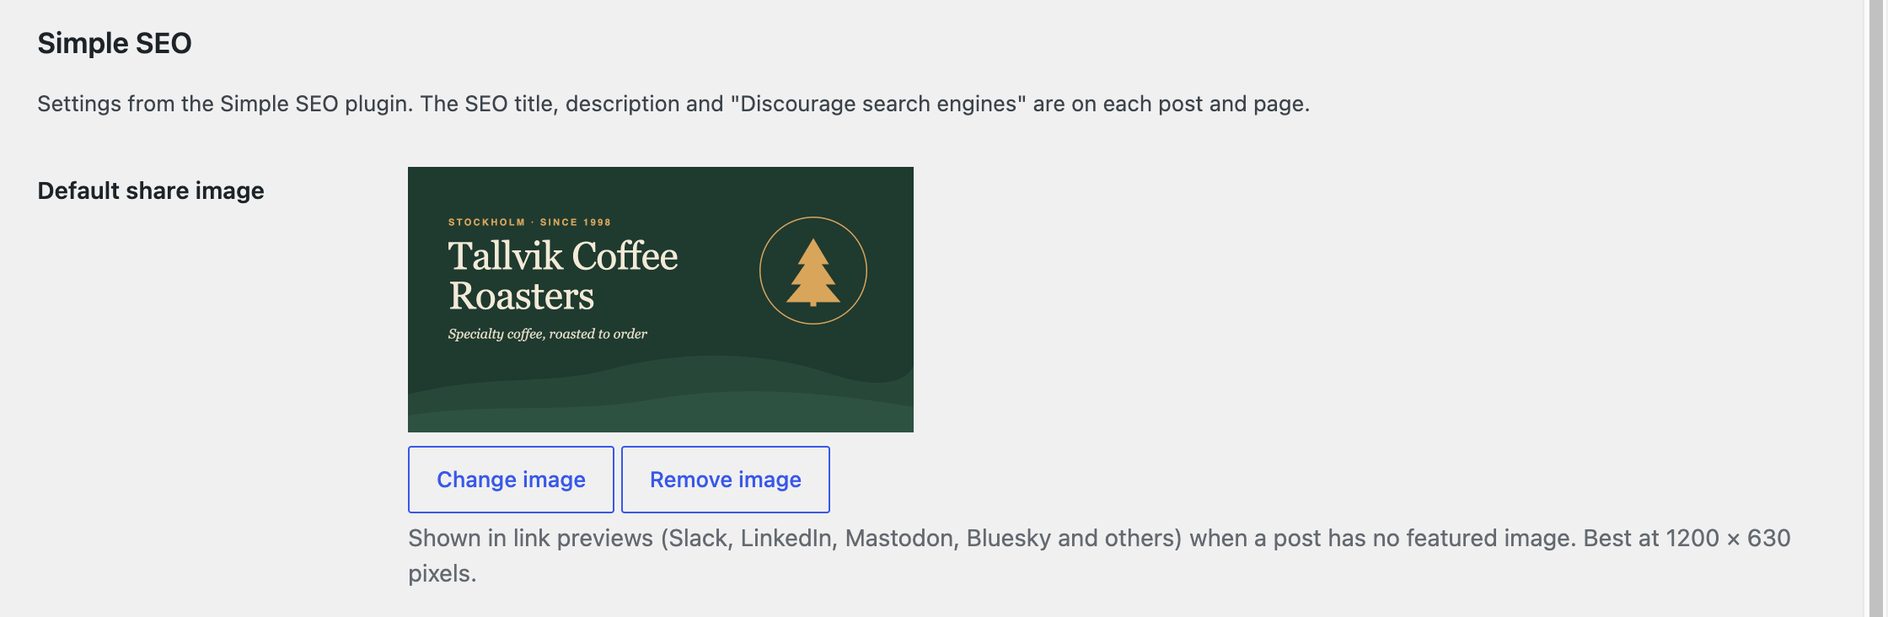
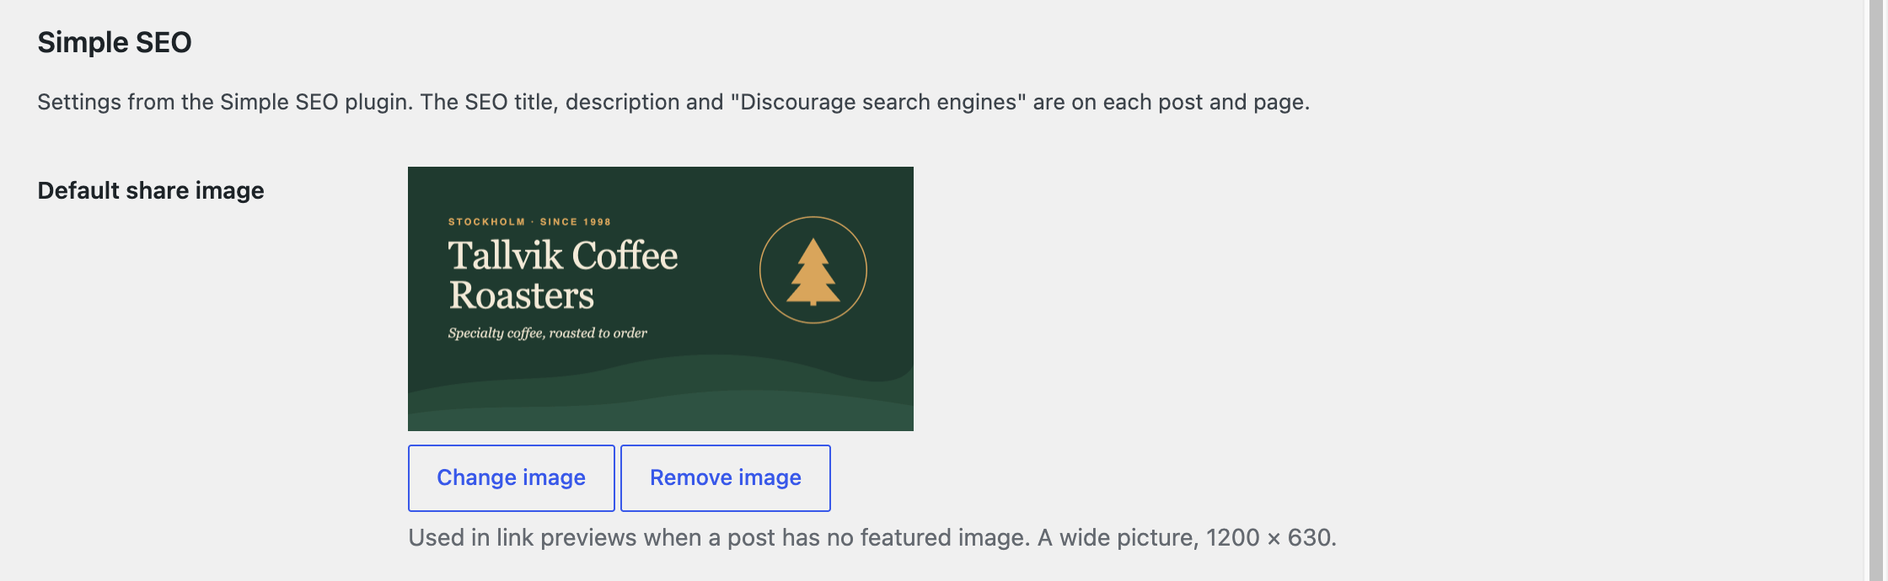
Link preview excerpt fallback, card size by image, shorter help text
- og:description falls back to a hand-written excerpt when a post has
  no meta description (never an automatic excerpt).
- twitter:card is summary_large_image only for images at least 600 px
  wide and wider than tall; a square site icon gets the small card.
- Help text is one short line per field; the advice moved to three new
  FAQ answers (SEO title length, what "Discourage search engines" does,
  a good share image).
- Readme example: an SEO title that stays close to the headline.
- Demo site and screenshots updated.

diff --git a/build/editor-panel.js b/build/editor-panel.js
@@ -1,2 +1,2 @@
-(()=>{"use strict";const e=window.wp.plugins,s=window.wp.editor,t=window.wp.coreData,i=window.wp.data,o=window.wp.element,n=window.wp.components,l=window.wp.i18n,r=window.ReactJSXRuntime,{otherPlugin:a,simpleHistoryUrl:p,frontPageId:_,faqUrl:m}=window.simpleSeoEditor||{};(0,e.registerPlugin)("simple-seo",{render:function(){const e=(0,i.useSelect)(e=>e(s.store).getCurrentPostType(),[]),d=(0,i.useSelect)(e=>e(s.store).getCurrentPostId(),[]),[c,h]=(0,t.useEntityProp)("postType",e,"meta");if(!c)return null;const w=""!==c._simple_seo_title.trim()||""!==c._simple_seo_description.trim()||!!c._simple_seo_noindex,u=e=>s=>h({[e]:s});return(0,r.jsx)(s.PluginDocumentSettingPanel,{name:"simple-seo",title:(0,l.__)("Simple SEO","simple-seo"),children:(0,r.jsxs)(n.Flex,{direction:"column",gap:4,children:[a&&(0,r.jsx)("p",{className:"components-base-control__help",children:(0,l.sprintf)(/* translators: %s: name of another SEO plugin, like Yoast SEO. */ /* translators: %s: name of another SEO plugin, like Yoast SEO. */
-(0,l.__)("%s is active and handles SEO, so these fields aren’t used.","simple-seo"),a)}),(0,r.jsx)(n.TextControl,{__next40pxDefaultSize:!0,__nextHasNoMarginBottom:!0,label:(0,l.__)("SEO title","simple-seo"),help:d===_?(0,l.__)("Used as the whole title of the front page.","simple-seo"):(0,l.__)("The site name is added after it.","simple-seo"),value:c._simple_seo_title,onChange:u("_simple_seo_title")}),(0,r.jsx)(n.TextareaControl,{__nextHasNoMarginBottom:!0,className:"simple-seo-autogrow",rows:2,label:(0,l.__)("Meta description","simple-seo"),help:(0,l.__)("Often shown under the title in search results.","simple-seo"),value:c._simple_seo_description,onChange:u("_simple_seo_description")}),(0,r.jsx)(n.CheckboxControl,{__nextHasNoMarginBottom:!0,label:(0,l.__)("Discourage search engines from indexing this page","simple-seo"),help:(0,l.__)("It’s up to search engines to honor this request. Anyone with the link can still open the page.","simple-seo"),checked:!!c._simple_seo_noindex,onChange:e=>h({_simple_seo_noindex:e})}),p&&w&&(0,r.jsx)("p",{className:"simple-seo-tip",children:(0,o.createInterpolateElement)((0,l.__)("Tip: <a>Simple History</a> logs every change to these fields.","simple-seo"),{a:(0,r.jsx)("a",{href:p})})}),(0,r.jsx)("div",{children:(0,r.jsx)(n.ExternalLink,{href:m,children:(0,l.__)("Learn more about these fields","simple-seo")})})]})})}})})();
+(()=>{"use strict";const e=window.wp.plugins,s=window.wp.editor,o=window.wp.coreData,t=window.wp.data,i=window.wp.element,n=window.wp.components,l=window.wp.i18n,r=window.ReactJSXRuntime,{otherPlugin:a,simpleHistoryUrl:p,frontPageId:_,faqUrl:m}=window.simpleSeoEditor||{};(0,e.registerPlugin)("simple-seo",{render:function(){const e=(0,t.useSelect)(e=>e(s.store).getCurrentPostType(),[]),d=(0,t.useSelect)(e=>e(s.store).getCurrentPostId(),[]),[c,h]=(0,o.useEntityProp)("postType",e,"meta");if(!c)return null;const w=""!==c._simple_seo_title.trim()||""!==c._simple_seo_description.trim()||!!c._simple_seo_noindex,u=e=>s=>h({[e]:s});return(0,r.jsx)(s.PluginDocumentSettingPanel,{name:"simple-seo",title:(0,l.__)("Simple SEO","simple-seo"),children:(0,r.jsxs)(n.Flex,{direction:"column",gap:4,children:[a&&(0,r.jsx)("p",{className:"components-base-control__help",children:(0,l.sprintf)(/* translators: %s: name of another SEO plugin, like Yoast SEO. */ /* translators: %s: name of another SEO plugin, like Yoast SEO. */
+(0,l.__)("%s is active and handles SEO, so these fields aren’t used.","simple-seo"),a)}),(0,r.jsx)(n.TextControl,{__next40pxDefaultSize:!0,__nextHasNoMarginBottom:!0,label:(0,l.__)("SEO title","simple-seo"),help:d===_?(0,l.__)("The whole title of the front page.","simple-seo"):(0,l.__)("About 50 characters. The site name is added after it.","simple-seo"),value:c._simple_seo_title,onChange:u("_simple_seo_title")}),(0,r.jsx)(n.TextareaControl,{__nextHasNoMarginBottom:!0,className:"simple-seo-autogrow",rows:2,label:(0,l.__)("Meta description","simple-seo"),help:(0,l.__)("Often shown in search results.","simple-seo"),value:c._simple_seo_description,onChange:u("_simple_seo_description")}),(0,r.jsx)(n.CheckboxControl,{__nextHasNoMarginBottom:!0,label:(0,l.__)("Discourage search engines from indexing this page","simple-seo"),help:(0,l.__)("It’s up to search engines to honor this request.","simple-seo"),checked:!!c._simple_seo_noindex,onChange:e=>h({_simple_seo_noindex:e})}),p&&w&&(0,r.jsx)("p",{className:"simple-seo-tip",children:(0,i.createInterpolateElement)((0,l.__)("Tip: <a>Simple History</a> logs every change to these fields.","simple-seo"),{a:(0,r.jsx)("a",{href:p})})}),(0,r.jsx)("div",{children:(0,r.jsx)(n.ExternalLink,{href:m,children:(0,l.__)("Learn more about these fields","simple-seo")})})]})})}})})();

diff --git a/.claude/skills/visual-check/capture-screenshots.js b/.claude/skills/visual-check/capture-screenshots.js
@@ -18,9 +18,9 @@
 async ( page ) => {
 	const WP_ENV = 'http://localhost:8315';
 	const CLASSIC = 'http://wp-playground-classiceditor.test:8314';
-	const WP_ENV_PAGE = 281; // "About us" from seed.php on wp-env.
-	const WP_ENV_QUICK_EDIT = 278; // "Our coffees", opened in Quick Edit in shot 2.
-	const CLASSIC_PAGE = 161; // "About us" from seed.php on the Classic Editor site.
+	const WP_ENV_PAGE = 361; // "About us" from seed.php on wp-env.
+	const WP_ENV_QUICK_EDIT = 358; // "Our coffees", opened in Quick Edit in shot 2.
+	const CLASSIC_PAGE = 183; // "About us" from seed.php on the Classic Editor site.
 	const X = 160; // Right of the admin menu.
 	const WIDTH = 1120;
 
@@ -72,7 +72,7 @@ async ( page ) => {
 	}
 	await p.waitForTimeout( 500 );
 	// A change to the title and description, for the Simple History shot.
-	await p.getByRole( 'textbox', { name: 'SEO title' } ).fill( 'Our story – coffee by the water' );
+	await p.getByRole( 'textbox', { name: 'SEO title' } ).fill( 'About us: our roastery in Nacka' );
 	await p
 		.getByRole( 'textbox', { name: 'Meta description' } )
 		.fill( 'Small batch coffee, roasted to order by the water in Nacka since 1998.' );

diff --git a/js/editor-panel.js b/js/editor-panel.js
@@ -76,11 +76,11 @@ function SimpleSeoPanel() {
 					help={
 						postId === frontPageId
 							? __(
-									'Used as the whole title of the front page.',
+									'The whole title of the front page.',
 									'simple-seo'
 								)
 							: __(
-									'The site name is added after it.',
+									'About 50 characters. The site name is added after it.',
 									'simple-seo'
 								)
 					}
@@ -94,7 +94,7 @@ function SimpleSeoPanel() {
 					rows={ 2 }
 					label={ __( 'Meta description', 'simple-seo' ) }
 					help={ __(
-						'Often shown under the title in search results.',
+						'Often shown in search results.',
 						'simple-seo'
 					) }
 					value={ meta._simple_seo_description }
@@ -108,7 +108,7 @@ function SimpleSeoPanel() {
 						'simple-seo'
 					) }
 					help={ __(
-						'It’s up to search engines to honor this request. Anyone with the link can still open the page.',
+						'It’s up to search engines to honor this request.',
 						'simple-seo'
 					) }
 					checked={ !! meta._simple_seo_noindex }

diff --git a/.claude/skills/visual-check/seed.php b/.claude/skills/visual-check/seed.php
@@ -69,7 +69,7 @@ $pages = [
 	[ 'Our coffees', $paragraphs( 'Single origins and blends, from light and fruity to dark and chocolatey.', 'Every bag is roasted the week you order it and shipped the day after roasting.' ), 'Coffee beans – light, medium and dark roasts', true, 'Single origins and blends, roasted every Tuesday and Friday and shipped the day after.', 'Coffees', '2019-03-12 09:20', 1 ],
 	[ 'Coffee subscription', $paragraphs( 'Fresh beans in your letterbox every two or four weeks. Pause or cancel whenever you like.' ), 'Coffee subscription – fresh beans every month', true, '', 'Subscription', '2021-02-01 13:45', $erik ],
 	[ 'Wholesale', $paragraphs( 'We roast for cafés, restaurants and offices around Stockholm, and help your staff get the most out of every bag.' ), 'Wholesale coffee for cafés and offices', false, 'Coffee, equipment and barista training for cafés, restaurants and offices in the Stockholm area.', '', '2020-08-19 10:02', $erik ],
-	[ 'About us', $paragraphs( 'Tallvik started in 1998 in a small shed by the water in Nacka, with a second-hand roaster and a lot of burnt beans.', '## Where our coffee comes from', 'We buy green coffee from the same farms year after year, and pay well above the market price for it.', '## Visit us', 'The roastery is open on Saturdays. Come by for a cup and watch us roast.' ), 'Our story – small batch coffee', true, 'Small batch coffee, roasted to order in Stockholm since 1998.', 'About', '2019-03-12 09:31', 1 ],
+	[ 'About us', $paragraphs( 'Tallvik started in 1998 in a small shed by the water in Nacka, with a second-hand roaster and a lot of burnt beans.', '## Where our coffee comes from', 'We buy green coffee from the same farms year after year, and pay well above the market price for it.', '## Visit us', 'The roastery is open on Saturdays. Come by for a cup and watch us roast.' ), 'About us: small batch coffee from Stockholm', true, 'Small batch coffee, roasted to order in Stockholm since 1998.', 'About', '2019-03-12 09:31', 1 ],
 	[ 'Visit the roastery', $paragraphs( 'Open Saturdays 10–15. Taste this week’s coffees and buy beans straight from the roaster.' ), '', true, 'Open Saturdays 10–15. Taste this week’s coffees and watch us roast.', '', '2023-05-02 08:40', $erik, 'About us' ],
 	[ 'Holiday gift boxes', $paragraphs( 'Three coffees, a tasting card and a handwritten note.' ), '', true, '', '', '2026-09-21 16:05', $erik, '', 'draft' ],
 	[ 'Thanks for your order', $paragraphs( 'Your coffee will be roasted on our next roasting day and shipped the day after.' ), '', true, '', '', '2021-02-01 14:10', $erik, '', 'publish', true ],

diff --git a/src/link-previews.php b/src/link-previews.php
@@ -42,15 +42,22 @@ function link_preview_tags(): void {
 		return;
 	}
 
-	$title = get_bloginfo( 'name' );
-	$url   = home_url( '/' );
-	$image = null;
+	$title       = get_bloginfo( 'name' );
+	$description = current_description();
+	$url         = home_url( '/' );
+	$image       = null;
 
 	if ( $post_id ) {
 		$title = seo_title( $post_id );
 		$title = '' !== $title ? $title : wp_strip_all_tags( get_the_title( $post_id ) );
 		$url   = (string) get_permalink( $post_id );
 		$image = featured_image( $post_id );
+
+		// No meta description: the excerpt, if someone wrote one. Not an automatic excerpt from the
+		// content, which is usually a worse summary than the apps' own.
+		if ( '' === $description ) {
+			$description = trim( (string) preg_replace( '/\s+/', ' ', wp_strip_all_tags( (string) get_post_field( 'post_excerpt', $post_id ) ) ) );
+		}
 	}
 
 	// The default share image from Settings → General, when there's no featured image.
@@ -71,14 +78,14 @@ function link_preview_tags(): void {
 		'og:type'         => is_front_page() ? 'website' : 'article',
 		'og:site_name'    => get_bloginfo( 'name' ),
 		'og:title'        => $title,
-		'og:description'  => current_description(),
+		'og:description'  => $description,
 		'og:url'          => $url,
 		'og:image'        => $image['url'] ?? '',
 		'og:image:width'  => $image['width'] ?? '',
 		'og:image:height' => $image['height'] ?? '',
 		'og:image:alt'    => $image['alt'] ?? '',
 		// Apps that read twitter:card take everything else from the og: tags.
-		'twitter:card'    => $image ? 'summary_large_image' : 'summary',
+		'twitter:card'    => $image && is_wide( $image ) ? 'summary_large_image' : 'summary',
 	];
 
 	/**
@@ -102,6 +109,20 @@ function link_preview_tags(): void {
 			esc_attr( (string) $content )
 		);
 	}
+}
+
+/**
+ * Whether an image suits a large, wide preview card: at least 600 px wide and wider than tall.
+ * A small or square image, like a site icon, gets the small card instead of being cropped or blurred.
+ * An image without a known size (from the filter) counts as wide.
+ *
+ * @param array{url: string, width?: int, height?: int} $image The image.
+ */
+function is_wide( array $image ): bool {
+	$width  = (int) ( $image['width'] ?? 0 );
+	$height = (int) ( $image['height'] ?? 0 );
+
+	return ! $width || ( $width >= 600 && $width > $height );
 }
 
 /**

diff --git a/tests/php/LinkPreviewsTest.php b/tests/php/LinkPreviewsTest.php
@@ -52,6 +52,34 @@ class LinkPreviewsTest extends SimpleSEO_TestCase {
 		$this->assertStringContainsString( 'twitter:card" content="summary"', $tags );
 	}
 
+	public function test_small_or_square_image_is_a_small_card() {
+		$post_id = self::factory()->post->create();
+		add_filter( 'simple_seo_link_preview_image', fn() => [ 'url' => 'https://example.com/icon.png', 'width' => 512, 'height' => 512, 'alt' => '' ] );
+		$this->go_to( get_permalink( $post_id ) );
+
+		$tags = $this->tags();
+		$this->assertStringContainsString( 'og:image" content="https://example.com/icon.png"', $tags );
+		$this->assertStringContainsString( 'twitter:card" content="summary"', $tags );
+	}
+
+	public function test_excerpt_when_there_is_no_description() {
+		$post_id = self::factory()->post->create( [ 'post_excerpt' => "  A hand-written\n<b>summary</b>. " ] );
+		$this->go_to( get_permalink( $post_id ) );
+
+		$this->assertStringContainsString( 'og:description" content="A hand-written summary."', $this->tags() );
+		// Only in link previews, not the meta description.
+		$this->assertSame( '', SimpleSEO\current_description() );
+
+		update_post_meta( $post_id, '_simple_seo_description', 'The SEO description' );
+		$this->assertStringContainsString( 'og:description" content="The SEO description"', $this->tags() );
+	}
+
+	public function test_no_automatic_excerpt() {
+		$this->go_to( get_permalink( self::factory()->post->create( [ 'post_content' => 'Only content, no excerpt.', 'post_excerpt' => '' ] ) ) );
+
+		$this->assertStringNotContainsString( 'og:description', $this->tags() );
+	}
+
 	public function test_nothing_on_archives() {
 		self::factory()->post->create();
 		$this->go_to( get_category_link( 1 ) );

diff --git a/tests/php/AdminTest.php b/tests/php/AdminTest.php
@@ -14,13 +14,13 @@ class AdminTest extends SimpleSEO_TestCase {
 		$front = self::factory()->post->create( [ 'post_type' => 'page' ] );
 		$other = self::factory()->post->create( [ 'post_type' => 'page' ] );
 
-		$this->assertSame( 'The site name is added after it.', title_help( $front ) );
+		$this->assertSame( 'About 50 characters. The site name is added after it.', title_help( $front ) );
 
 		update_option( 'show_on_front', 'page' );
 		update_option( 'page_on_front', $front );
 
-		$this->assertSame( 'Used as the whole title of the front page.', title_help( $front ) );
-		$this->assertSame( 'The site name is added after it.', title_help( $other ) );
+		$this->assertSame( 'The whole title of the front page.', title_help( $front ) );
+		$this->assertSame( 'About 50 characters. The site name is added after it.', title_help( $other ) );
 	}
 
 	public function test_uses_seo_fields() {

diff --git a/src/admin.php b/src/admin.php
@@ -33,15 +33,15 @@ const FAQ_URL = 'https://wordpress.org/plugins/simple-seo/#faq';
  */
 function title_help( int $post_id ): string {
 	return is_front_page_post( $post_id )
-		? __( 'Used as the whole title of the front page.', 'simple-seo' )
-		: __( 'The site name is added after it.', 'simple-seo' );
+		? __( 'The whole title of the front page.', 'simple-seo' )
+		: __( 'About 50 characters. The site name is added after it.', 'simple-seo' );
 }
 
 /**
  * Help text for "Discourage search engines from indexing this page". noindex is a request, not a block.
  */
 function noindex_help(): string {
-	return __( 'It\'s up to search engines to honor this request. Anyone with the link can still open the page.', 'simple-seo' );
+	return __( 'It\'s up to search engines to honor this request.', 'simple-seo' );
 }
 
 /**

diff --git a/src/classic-editor.php b/src/classic-editor.php
@@ -61,7 +61,7 @@ function meta_box( WP_Post $post ): void {
 	}
 
 	text_field( 'title', __( 'SEO title', 'simple-seo' ), get_title( $post->ID ), title_help( $post->ID ) );
-	text_field( 'description', __( 'Meta description', 'simple-seo' ), get_description( $post->ID ), __( 'Often shown under the title in search results.', 'simple-seo' ), true );
+	text_field( 'description', __( 'Meta description', 'simple-seo' ), get_description( $post->ID ), __( 'Often shown in search results.', 'simple-seo' ), true );
 
 	if ( 'page' === $post->post_type ) {
 		text_field( 'menu_label', __( 'Menu label', 'simple-seo' ), get_menu_label( $post->ID ), __( 'Used in automatic page lists, not in hand-made menus.', 'simple-seo' ) );

diff --git a/src/settings.php b/src/settings.php
@@ -100,7 +100,7 @@ function share_image_field(): void {
 
 	printf(
 		'<p class="description">%s</p>',
-		esc_html__( 'Shown in link previews (Slack, LinkedIn, Mastodon, Bluesky and others) when a post has no featured image. Best at 1200 × 630 pixels.', 'simple-seo' )
+		esc_html__( 'Used in link previews when a post has no featured image. A wide picture, 1200 × 630.', 'simple-seo' )
 	);
 }
 

diff --git a/build/editor-panel.asset.php b/build/editor-panel.asset.php
@@ -9,5 +9,5 @@
 		'wp-i18n',
 		'wp-plugins'
 	),
-	'version' => '07938acf59ff24147cf3'
+	'version' => '4719b15fe7747794022a'
 );

diff --git a/CLAUDE.md b/CLAUDE.md
@@ -33,7 +33,7 @@ Released: 1.0.0 (2026-09-26), the rewrite. Before it, 0.3.5 (2026-09-24), the fi
   - No checkboxes for text fields (2026-09-26, the day 1.0.0 shipped, before WordPress.org's 6-hour hold let any site update): only noindex is a checkbox. 1.0.0 stored a `_simple_seo_title_disabled` / `_simple_seo_description_disabled` flag per field; they're no longer read or written.
   - Pre-1.0 title: `_simple_seo_use_custom_page_title` (0/1) and `_simple_seo_custom_page_title_value`. Existing sites depend on it, so `get_title()` falls back to it, only when its box was ticked (an unticked one stays unused). Any write to `_simple_seo_title` (editor, REST, WP-CLI) deletes the old pair. No bulk migration, no option to track one.
   - Menu label: `_simple_seo_use_custom_menu_label` (0/1) and `_simple_seo_custom_menu_label_value`, unchanged keys. Kept for existing users, pages only, Classic meta box only (2026-09-25). A plain text field: saving text sets the flag to 1, saving it empty deletes both.
-- Link previews (`src/link-previews.php`): Open Graph + `twitter:card` on posts, pages, the blog page and the front page (not archives or search), from the SEO title, description and featured image. On by default, no setting (2026-09-25). Turns Jetpack's Open Graph off while ours are on.
+- Link previews (`src/link-previews.php`): Open Graph + `twitter:card` on posts, pages, the blog page and the front page (not archives or search), from the SEO title, description and featured image. Without a description, `og:description` falls back to a hand-written excerpt (never an automatic one; the meta description has no fallback). `summary_large_image` only for images at least 600 px wide and wider than tall (`is_wide()`), else `summary` (2026-09-27: a 512 px site icon as the share image). On by default, no setting (2026-09-25). Turns Jetpack's Open Graph off while ours are on.
 - Settings (`src/settings.php`): a "Simple SEO" section on Settings → General via the Settings API (looks like core, but users must see it's from our plugin, hence the section heading and "From the Simple SEO plugin."). One field, "Default share image", with the media library like core's Site Icon (`build/share-image-field.js`). Stored as `{ id, url, width, height, alt }` so link previews need no queries; refreshed when that attachment's metadata or alt text changes, removed when it's deleted. Used in link previews when a post has no featured image.
 - Simple History (`src/simple-history.php`, `src/class-simple-history-logger.php`): when it's active, changes to the fields are logged as one "Updated the SEO for …" event per post and request (captured before our keys are written, logged on `shutdown`), with old and new values of the SEO title, description, noindex and menu label. Action links under the event (`get_action_links()`, Simple History 5.24+): Edit/View <type> and All <types>, following Simple History's `action-links` skill (plain title in the message, no revisions link). Changes of the default share image are logged too (set, changed, removed; not the refresh after an alt-text edit), with Simple History 5.32+'s image diff (size `small`, the default overflows) and a "General settings" link. The logger class is only loaded from `register_simple_history_logger()`, after checking for Simple History 4.0+'s `Logger` class (as CMS Tree Page View does). PHPStan knows the Simple History classes from `tests/phpstan/simple-history-stubs.php`. Without Simple History: one tip line in the editor fields, for users who can install plugins only.
 - No HTML comment in the head (2026-09-26): no "optimized by Simple SEO" line like Yoast's. It would be an advert in every page and, with a version, help fingerprint the site. Query Monitor answers "which plugin printed this". `HeadTest` checks it. Exception (2026-09-26): when `wp_get_environment_type()` is `local`, `head_tags()` wraps the meta description and link preview tags in `<!-- Simple SEO start (local sites only, not on live sites). Title and robots tags: printed by WordPress, filtered by Simple SEO. -->` / `<!-- Simple SEO end -->` (wording from a copywriter pass), for debugging (filter `simple_seo_debug_comments`). The `<title>` and robots tags are core's, so they sit outside: robots above, the title above on classic themes but below on block themes (core adds its title hook after plugins there), hence no "above" in the comment. All local docker sites and wp-env report `local`.
@@ -46,7 +46,7 @@ Released: 1.0.0 (2026-09-26), the rewrite. Before it, 0.3.5 (2026-09-24), the fi
   - Sitemap: noindexed posts are left out of core's `wp-sitemap.xml` (`wp_sitemaps_posts_query_args`). The noindex meta's sanitize callback stores it as `'1'` or `''`, which the query relies on.
   - The menu label only affects `get_pages()` / `wp_list_pages()`, and not in wp-admin (the Parent and Settings → Reading dropdowns show real titles; admin-ajax and REST still get labels). That includes the Page List block (`wp-includes/blocks/page-list.php` calls `get_pages()`), which an empty Navigation block falls back to: WordPress creates a `wp_navigation` post containing `<!-- wp:page-list /-->` (verified in Twenty Twenty-Three on the php74 site). It does not reach classic menus or Navigation blocks with hand-picked Page Link blocks, which store their own labels.
 - Block editor: `src/block-editor.php` loads `build/editor-panel.js` (source `js/editor-panel.js`) on the post edit screen only. A "Simple SEO" `PluginDocumentSettingPanel` made of core components, reading and writing the meta with `useEntityProp`, so it saves with the post. Same fields as the Classic box: a `TextControl`, a `TextareaControl` and the noindex `CheckboxControl`. It renders nothing for post types without `custom-fields` support. Keep it looking like core: stable `@wordpress/components` only (`__experimental*` fails lint), core wording and spacing, one short help line per field, the other-plugin message as a plain help paragraph (core panels don't use Notices). Pass only changed keys to `setMeta()` (meta edits are merged). Keep `__nextHasNoMarginBottom` / `__next40pxDefaultSize` until the floor is WordPress 7.0 (default there, warnings without them on 6.7–6.9); never pass `__next40pxDefaultSize` to `TextareaControl`. Reviewed against WP 7.1 and Gutenberg trunk on 2026-09-25: no deprecated APIs, and DataForm isn't usable by plugins yet.
-- Naming (2026-09-26, after a UX and an art director review): the block editor panel and the Classic box are "Simple SEO", so users see where they come from; the list column is "SEO", where space is tight; Quick Edit has no group heading (2026-09-26: the field labels say it). Help text is one line per field (`src/admin.php`: the title help says "whole title" on the static front page, the noindex checkbox and help follow core's Settings → Reading wording, since noindex is a request search engines may ignore: "Discourage search engines from indexing this page" / "It's up to search engines to honor this request. Anyone with the link can still open the page."). The Simple History tip only shows on posts that use the fields. Both the panel and the box end with "Learn more about these fields", an external link to the readme FAQ (`FAQ_URL` in `src/admin.php`), the core way to offer more help (core never puts help icons on fields).
+- Naming (2026-09-26, after a UX and an art director review): the block editor panel and the Classic box are "Simple SEO", so users see where they come from; the list column is "SEO", where space is tight; Quick Edit has no group heading (2026-09-26: the field labels say it). Help text is one short line per field, only what's needed while typing (2026-09-27: "keep it simple and minimal"); the reasons go in the readme FAQ, which "Learn more about these fields" opens. `src/admin.php` and `js/editor-panel.js`: title "About 50 characters. The site name is added after it." ("The whole title of the front page." on the static front page), description "Often shown in search results.", noindex label and help in core's Settings → Reading wording, since it's a request search engines may ignore: "Discourage search engines from indexing this page" / "It's up to search engines to honor this request." Share image (Settings): "Used in link previews when a post has no featured image. A wide picture, 1200 × 630." The Simple History tip only shows on posts that use the fields. Both the panel and the box end with "Learn more about these fields", an external link to the readme FAQ (`FAQ_URL` in `src/admin.php`), the core way to offer more help (core never puts help icons on fields).
 - Posts lists (`src/list-table.php`): an "SEO" column right after the title (2026-09-26: it's related to the title) (what's used: "Search engines discouraged" first, then "Title:" and "Description:" lines with a muted label (the title text semibold, 600), so each row reads on its own; — when nothing is set. picked on 2026-09-26 from a mockup comparison) and the same fields in Quick Edit (the menu label only on pages that already have one, since the block editor has none; 2026-09-26), filled by `build/quick-edit.js` from JSON the column keeps in a hidden element. Quick Edit posts the Classic box's field names, so `save_post()` in `classic-editor.php` saves both; Bulk Edit doesn't include them, so it can't touch them. The list query has already loaded the meta: no extra queries. Which post types: `has_seo_fields()` in `meta.php`, shared with the box and the panel.
 - Old 0.3.5 titles (ticked ones) reach the REST API and the panel through `legacy_title_default()` (`default_post_metadata`). `forget_legacy_title()` deletes the old keys on any write of `_simple_seo_title`; `save_text()` calls it too when it empties a field that has nothing stored under the new key (a delete of a missing key fires no hook).
 - Which post types get the fields (Classic box and block editor panel): those where `is_post_type_viewable()` is true, except attachments. That's deliberate (2026-09-25): "viewable" means the post type has pages visitors and search engines can reach (`publicly_queryable`, or `public` for built-ins), which is what matters for SEO; checking `public` alone would be wrong for CPTs that set the two differently. Attachments are left out because attachment pages are off by default since WordPress 6.4. The block editor panel also needs `custom-fields` support (see todo.md).
